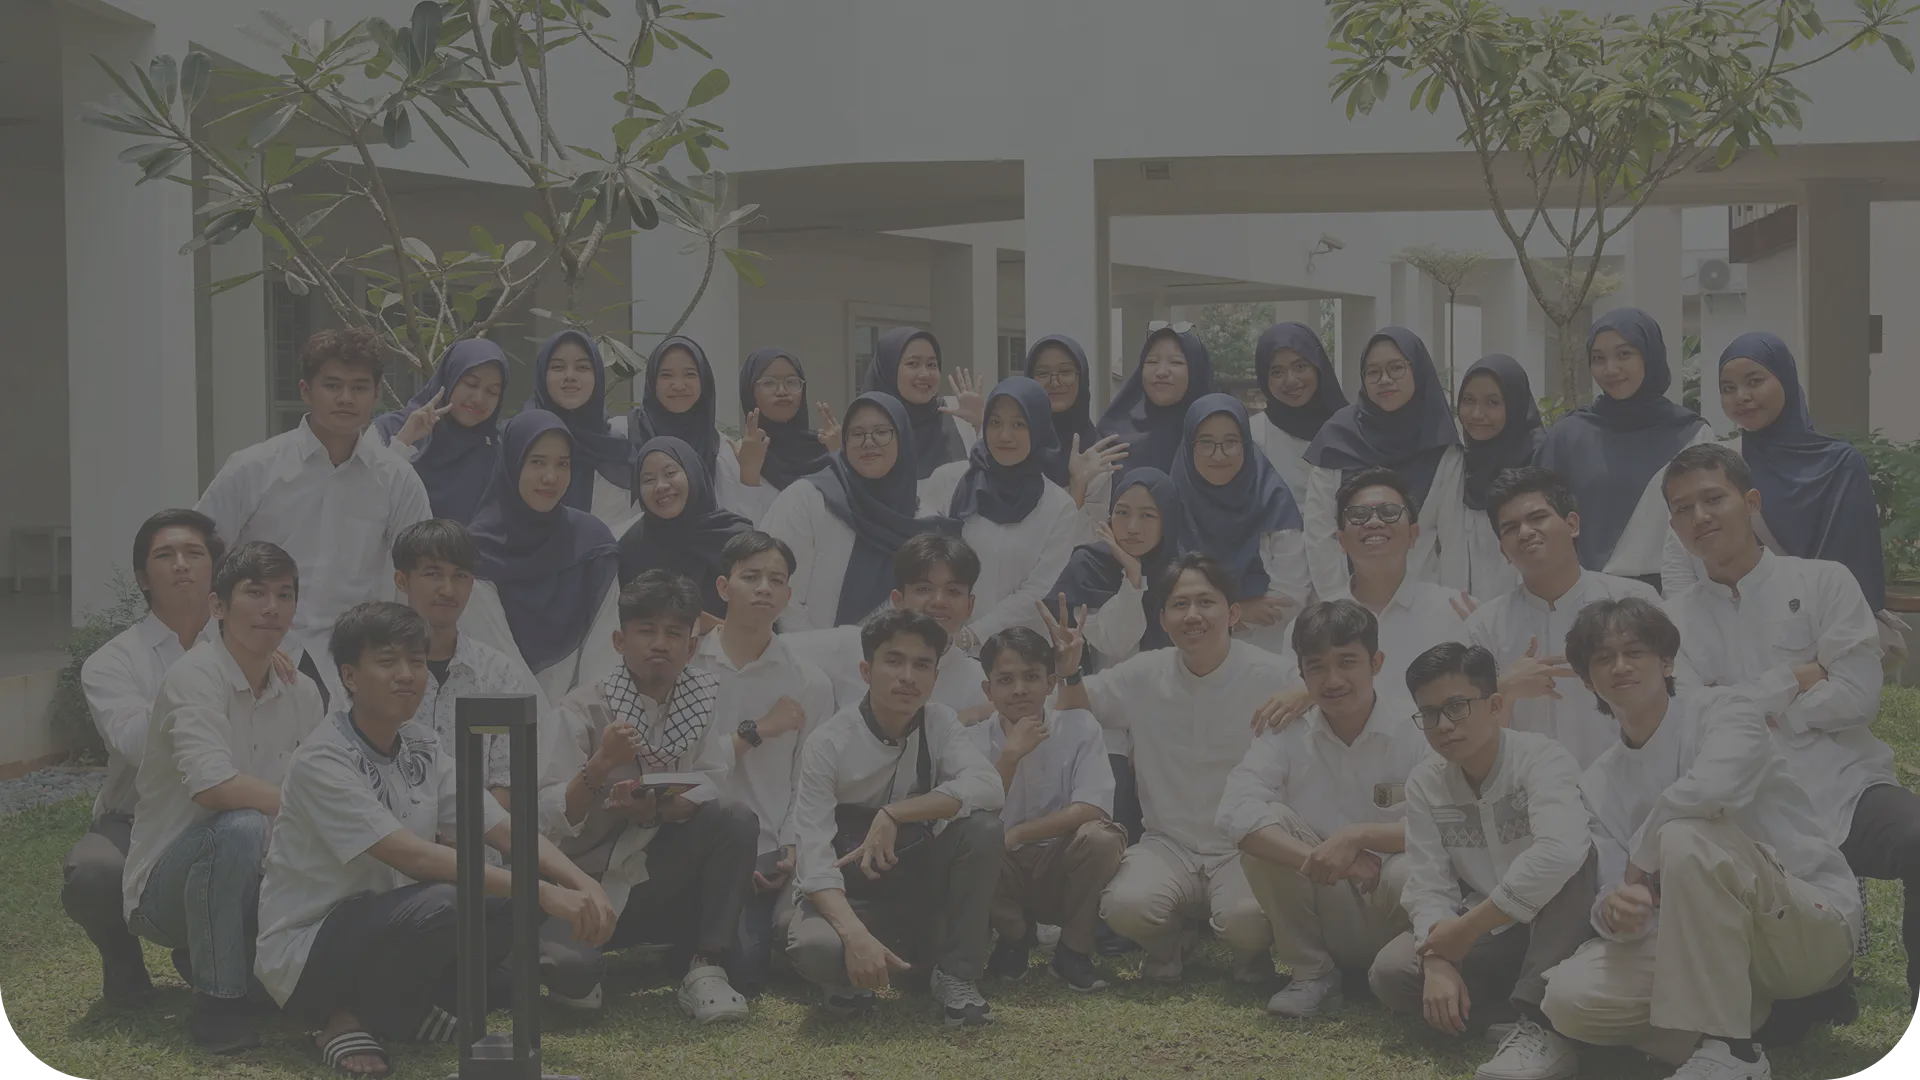
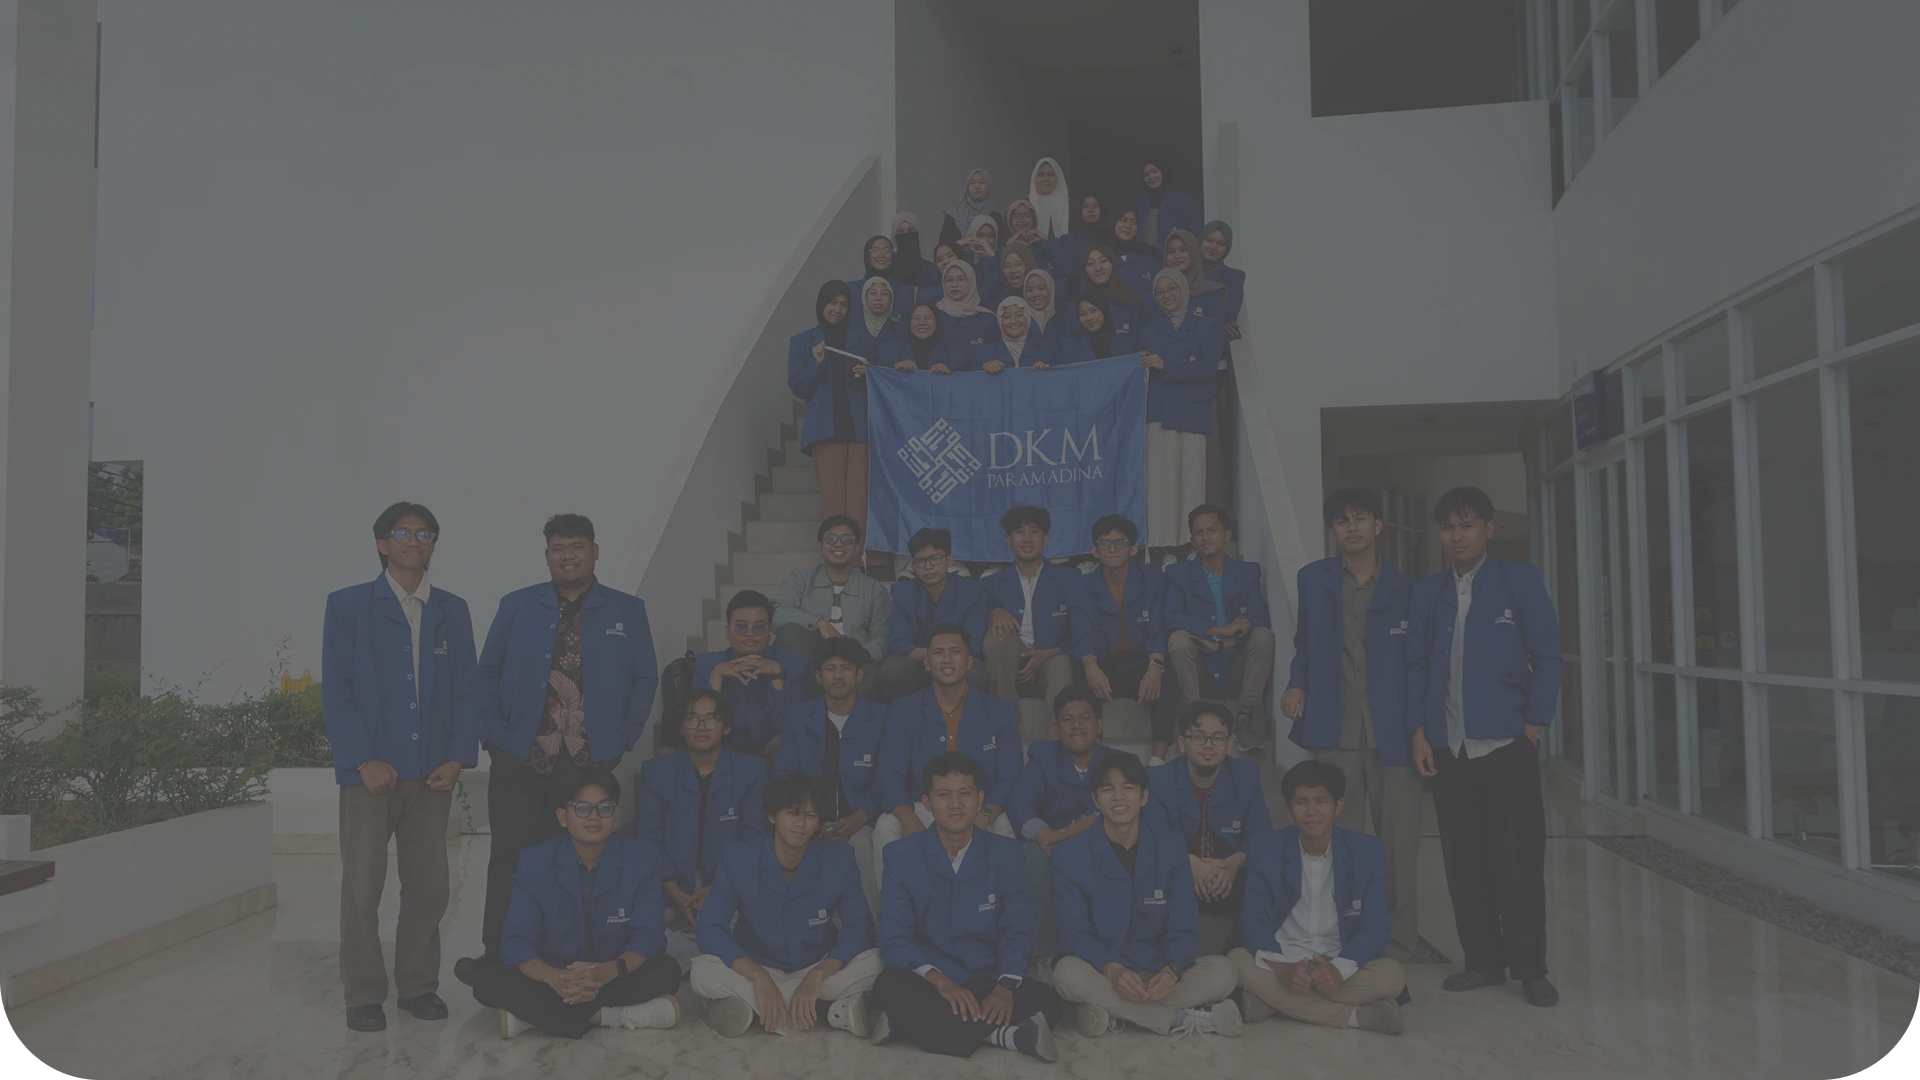
change type image  hero png to webp

diff --git a/app/page.js b/app/page.js
@@ -138,7 +138,7 @@ export default function Home() {
         onMouseMove={handleMouseMove}
         className="h-screen bg-cover bg-center flex items-center justify-center relative overflow-hidden rounded-bl-[20px] rounded-br-[20px] lg:rounded-bl-[50px] lg:rounded-br-[50px]"
         style={{
-          backgroundImage: "url('/bg_hero.png')",
+          backgroundImage: "url('/bg_hero.webp')",
         }}
       >
         {/* Overlay hitam transparan */}
